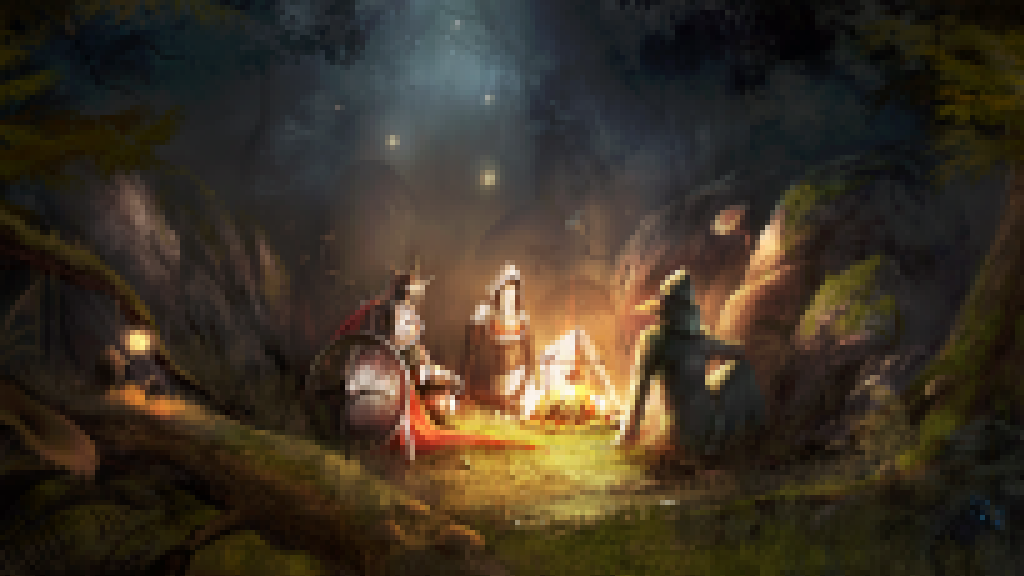
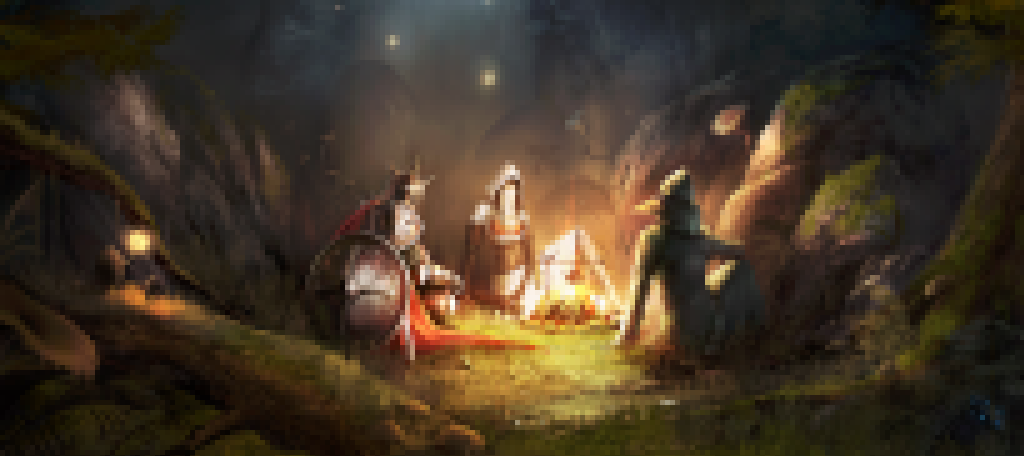
Update look of CampScene

diff --git a/src/scene/CampScene.java b/src/scene/CampScene.java
@@ -73,7 +73,7 @@ public class CampScene extends Scene {
 		mainLayer.add(buttonPanel, mainLayer.getPosition(ReferencePoint.BOTTOMLEFT), Positionable.ReferencePoint.BOTTOMLEFT);
 		
 		campFire = new Particle(container, 1, 0, 15);
-		campFire.addFire(565, 400, 15);
+		campFire.addFire(560, 290, 15);
 		backgroundLayer.add(campFire);
 	}
 	
